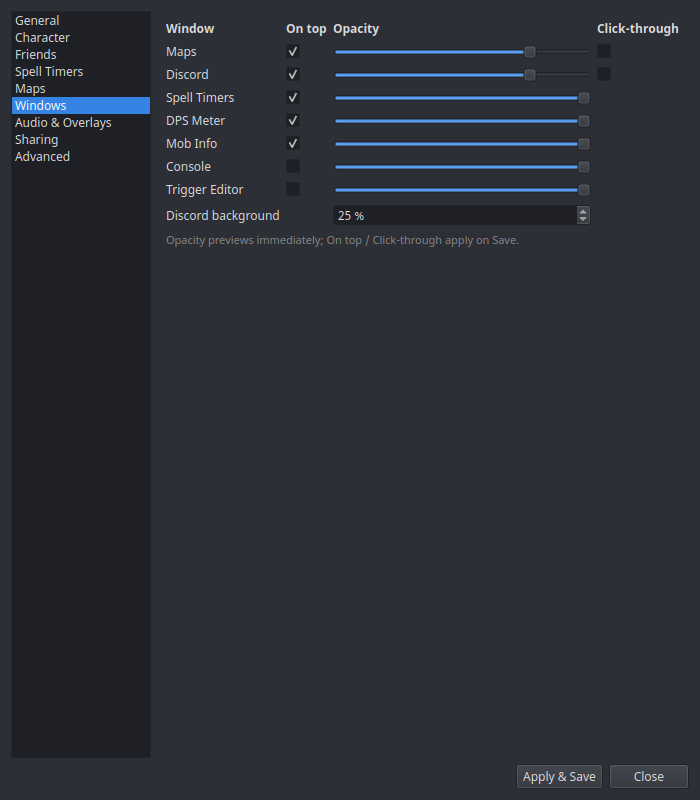
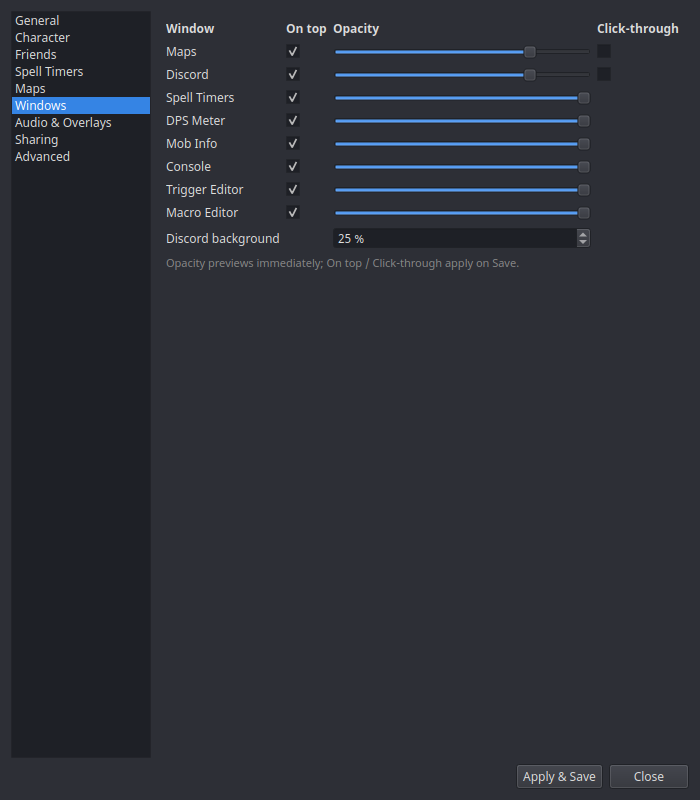
docs: document the Macro Editor and macro sharing
Adds docs/windows/macro-editor.md and docs/features/macros.md, both in the
mkdocs nav, plus cross-links from the features and windows indexes, the EQ
install directory row in Settings > General, and the friends sync page
(macros live in the same ini files).

The feature page leads with the caveat that matters: the client rewrites
these files on camp or logout, so edits made while logged in are lost. It
also spells out the duplicate-versus-conflict distinction as a table, since
users will conflate the two, and explains why the origin badge reads "last
written by" rather than "authored by".

Also captures the new window screenshot and recaptures settings--windows,
which gained a Macro Editor row.

Claude-Session: https://claude.ai/code/session_013krV6ioDtH4gUrZX2zXR7q

Changed region(s): [[0.24, 0.25, 0.84, 0.3438]]

diff --git a/tools/capture_screenshots.py b/tools/capture_screenshots.py
@@ -451,6 +451,51 @@ def cap_trigger_editor(backend, settings) -> None:
     capture(w, "window--trigger-editor", size=(960, 640))
 
 
+def cap_macro_editor(backend, settings) -> None:
+    import tempfile
+
+    from nparseplus.ui.macroeditor import MacroEditorWindow
+
+    # A throwaway EQ install so the editor has real files to read. Writing
+    # temp files is fine here — this is a tool, not library code.
+    eq_dir = Path(tempfile.mkdtemp(prefix="nparseplus-shots-eq-"))
+    (eq_dir / "uifiles").mkdir()
+    (eq_dir / "eqgame.exe").write_text("")
+    macros = [
+        (1, 1, "Assist", 13, ["/assist", "/pet attack"]),
+        (1, 2, "Pull", 4, ["/shout Pulling %T"]),
+        (1, 4, "CH Chain", 7, ["/gu CH on %T"]),
+        (1, 5, "Rez", 10, ["/say Need rez please"]),
+        (1, 7, "Med", 3, ["/sit"]),
+        (2, 1, "Track", 9, ["/tracking"]),
+    ]
+    lines = ["[Defaults]", "Version=1", "", "[Socials]"]
+    for page, button, name, color, cmds in macros:
+        prefix = f"Page{page}Button{button}"
+        lines.append(f"{prefix}Name={name}")
+        lines.append(f"{prefix}Color={color}")
+        lines.extend(f"{prefix}Line{i}={cmd}" for i, cmd in enumerate(cmds, start=1))
+    lines += ["", "[Friends]", "Friend0=Alistra", "", "[KeyMaps]", "Forward=W"]
+    (eq_dir / "Xantik_P1999Green.ini").write_text("\n".join(lines) + "\n")
+    (eq_dir / "Beeta_P1999Green.ini").write_text("[Socials]\nPage1Button1Name=Old\n")
+
+    previous = settings.general.eq_install_dir
+    settings.general.eq_install_dir = eq_dir
+    try:
+        store_dir = Path(tempfile.mkdtemp(prefix="nparseplus-shots-store-"))
+        w = _keep(MacroEditorWindow(settings, on_save=lambda: None, store_dir=store_dir))
+        w.confirm_unsaved = False
+        w.warn_eq_running = False
+        index = w.character_combo.findText("Xantik")
+        if index >= 0:
+            w.character_combo.setCurrentIndex(index)
+        w.load()
+        w.select_slot(1, 1)
+        capture(w, "window--macro-editor", size=(960, 640))
+    finally:
+        settings.general.eq_install_dir = previous
+
+
 def cap_settings(backend, settings) -> None:
     import nparseplus.ui.settingswindow as settingswindow
     from nparseplus.audio.tts import VoiceInfo
@@ -730,6 +775,7 @@ PHASE_A = {
     "feature--ch-chain": lambda b, s: cap_ch_chain(),
     "window--update-available": lambda b, s: cap_update_dialog(),
     "window--trigger-editor": lambda b, s: cap_trigger_editor(b, s),
+    "window--macro-editor": lambda b, s: cap_macro_editor(b, s),
     "settings": lambda b, s: cap_settings(b, s),  # emits all settings--*.png
 }
 

diff --git a/src/nparseplus/ui/macroeditor.py b/src/nparseplus/ui/macroeditor.py
@@ -484,10 +484,15 @@ class MacroEditorWindow(QWidget):
                 self._grid.button_origin,
                 self._grid.button_origin + self._grid.buttons_per_page,
             )
+            rows = 0
             for offset, button in enumerate(buttons):
                 widget = self._make_slot_button(page, button, duplicates, wanted)
-                layout.addWidget(widget, offset // GRID_COLUMNS, offset % GRID_COLUMNS)
+                rows = offset // GRID_COLUMNS
+                layout.addWidget(widget, rows, offset % GRID_COLUMNS)
                 self._buttons[(page, button)] = widget
+            # Let the slots keep their natural height and hug the top rather
+            # than stretching apart to fill the tab.
+            layout.setRowStretch(rows + 1, 1)
             self.page_tabs.addTab(tab, f"Page {page}")
 
         if selected is not None and selected in self._buttons:

diff --git a/docs/features/macros.md b/docs/features/macros.md
@@ -1,0 +1,104 @@
+# Macros & socials
+
+The EQ client keeps your macros — the socials on your hotkey buttons —
+**per character**, in the same `<Name>_<Server>.ini` files that hold the
+[friends list](friends-sync.md). Your main's carefully built macro set is
+invisible to your alt, and there is no way to hand it to a guildmate.
+
+The [Macro Editor](../windows/macro-editor.md) makes that set editable,
+copyable between your own characters, and shareable as a file.
+
+## What you can do
+
+1. Set your **EQ install directory** in
+   [Settings → General](../settings/general.md).
+2. Open **Macro Editor** from the tray, pick a server and character, and
+   hit **Load**.
+3. Edit any macro's name, colour, and up to five command lines.
+4. **Copy to character(s)…** replicates the set onto your alts.
+5. **Export…** writes a macro pack; **Import…** merges someone else's.
+
+!!! warning "Edit while logged out"
+    The client rewrites the whole character `.ini` when you camp or log
+    out, discarding anything changed while it was running. nParse+ warns
+    you if it sees the game running, but it will not stop you — so the
+    safe habit is to edit macros while that character is logged out. If a
+    save looks like it "didn't work", this is almost always why.
+
+Originals are copied into a `socials_backup/` folder beside them before
+the first write, the same safety net the friends sync uses.
+
+## Duplicates and conflicts are different things
+
+Users conflate these, so the editor keeps them apart:
+
+| | Same slot | Different slot |
+|---|---|---|
+| **Same macro** | nothing to do | *duplicate* — skipped, and reported |
+| **Different macro** | *conflict* — you are asked what to do | placed |
+
+A **duplicate** is a macro the character already has somewhere, matched on
+its name *or* on an identical set of command lines. Imports skip these and
+tell you where the existing copy lives; you can place another copy anyway.
+
+A **conflict** is a *different* macro already sitting in the slot an
+imported macro wants. Imports keep their original page and button so
+muscle memory survives, so when the slot is taken you get a choice:
+
+| Choice | What happens |
+|---|---|
+| **Overwrite** | The imported macro takes the slot. |
+| **Move to free slot** | It lands on the first empty button instead. |
+| **Skip** | It is not imported. |
+
+**Find duplicates…** lists every duplicate group in the current character
+and jumps to any slot. It never changes anything — clear a slot yourself
+if you want it gone.
+
+## Where your macros came from
+
+Every slot carries a badge saying who last wrote it:
+
+| Badge | Meaning |
+|---|---|
+| ▢ | **From game** — read out of the client's file, not authored here |
+| ✎ | **Created in nParse+** — you edited it in the Macro Editor |
+| ↧ | **Imported** — it arrived in a macro pack or a copy from another character |
+
+The **Show** filter dims the slots that don't match, rather than hiding
+them, so positions stay readable. **Export…** uses the same information:
+it defaults to *only what I authored*, so a pack you share doesn't carry
+the client's stock macros.
+
+!!! note "\"Last written by\", not \"authored by\""
+    nParse+ knows whether a slot still holds exactly what it wrote there.
+    It cannot tell who changed it otherwise. Edit a macro in game and it
+    correctly flips back to *from game* — but edit it in game back to the
+    exact value nParse+ wrote and it will still read as yours.
+
+## The local copy
+
+Each time you Load a character, nParse+ mirrors their macros into its own
+data directory. The client's `.ini` stays the source of truth; the mirror
+exists so the editor can tell what changed since last time, track the
+badges above, and put things back.
+
+The **Local library** tab lists that mirror. Its most useful job is after
+a clobber: if the client rewrote the file and dropped macros, they show as
+*not in file*, and **Restore from local copy** puts them back into the
+working set (you still click Save to character to write them).
+
+The mirror is a convenience, never a dependency. If it can't be written
+the editor says so in the status line and saves your macros anyway, and
+deleting the directory is a supported reset — everything simply reads as
+*from game* again.
+
+## Sharing a pack
+
+Exports are plain JSON with a `format` of `nparseplus-socials`, the same
+envelope shape as [trigger packs](triggers.md), so they can be posted,
+mailed, or checked into a guild repo. A pack records which character it
+came from for display only; that never changes anything on import.
+
+Only socials are covered. Hotbar assignments and key bindings live in
+other sections of the same file and are not touched.

diff --git a/docs/windows/macro-editor.md b/docs/windows/macro-editor.md
@@ -1,0 +1,70 @@
+# Macro Editor
+
+The Macro Editor is a framed tool window for browsing and editing a
+character's in-game macros ("socials"), copying a macro set onto your other
+characters, and sharing it as a file. See
+[Macros & socials](../features/macros.md) for the concepts.
+
+![The Macro Editor](../assets/screenshots/window--macro-editor.png)
+
+Open it from the tray → **Macro Editor**. It needs the **EQ install
+directory** set in [Settings → General](../settings/general.md).
+
+## Layout
+
+- **Top bar** — pick the **Server** (P1999Green, P1999Blue, P1999Red,
+  Real-Test) and **Character**, then **Load**. The **Show** filter dims
+  slots that don't match an origin, rather than hiding them, so positions
+  stay readable.
+- **Left: Grid tab** — one tab per macro page, each a grid of button
+  slots. A slot shows its position, an origin badge, a `⧉` marker when it
+  duplicates another macro, and the macro's name. Empty slots say so.
+- **Left: Local library tab** — the mirrored copy of this character's
+  macros, grouped by origin. Macros the client has since dropped appear as
+  *not in file*, with **Restore from local copy** beside the count.
+- **Right: the macro form** — **Name**, **Color**, and up to five command
+  lines, plus a line naming who last wrote this slot and **Clear this
+  macro**.
+
+The page grid mirrors the in-game socials window, which also makes free
+slots obvious — useful when an import offers to move a macro out of a
+taken slot.
+
+## Buttons
+
+| Button | What it does |
+|---|---|
+| **Load** | Reads the selected character's macros and refreshes the local copy. |
+| **Save to character** | Writes the working copy to that character's `.ini`. |
+| **Copy to character(s)…** | Replicates this set onto other characters — **writes immediately**. |
+| **Import…** | Merges a macro pack into the working copy. |
+| **Export…** | Writes a macro pack, defaulting to only what you authored. |
+| **Find duplicates…** | Lists duplicate groups and jumps to a slot. Changes nothing. |
+
+## Editing rules
+
+- Nothing reaches the `.ini` until **Save to character** — edits happen on
+  a working copy. Closing with unsaved changes prompts you.
+- **Copy to character(s)… is the exception**: it writes its targets
+  straight away, like the friends push does. Its confirm dialog names the
+  characters and says whether it will replace or merge.
+- **Import never writes** — it only fills the working copy, and says so.
+- Grid dimensions are read from your own file rather than assumed, so a
+  client build with more pages, buttons, or lines works unchanged. An
+  imported macro that would land outside your grid is reported instead of
+  written.
+
+## Safety
+
+- Every file is copied into `socials_backup/` beside it before its first
+  write, and that first copy is never overwritten.
+- Saving warns — but does not stop you — when the EQ client looks to be
+  running, because it rewrites these files on camp and logout. See the
+  [warning in Macros & socials](../features/macros.md).
+- Only the `[Socials]` section is rewritten. Other sections of the file,
+  unrecognised keys, comments, and blank lines are preserved exactly.
+
+!!! note "Colour is a number"
+    **Color** is the client's own palette index, shown as a raw number.
+    The P99 palette mapping isn't verified, and a swatch showing the wrong
+    colour would be worse than an honest index.

diff --git a/docs/windows/index.md b/docs/windows/index.md
@@ -16,7 +16,7 @@ Click the tray icon to open the menu. Top to bottom:
 | **Check for updates** | Checks GitHub for a newer release on demand and reports back either way — the update dialog if one is found, or a "you're on the latest version" notification. |
 | **Sharing: …** | A read-only line showing your current [location-sharing](../features/sharing.md) state (`off` until you enable it). |
 | **Select EQ Logs Directory** | Point nParse+ at the folder EQ writes logs to (same as [Settings → General](../settings/general.md)). |
-| **Maps · Discord · Spell Timers · Settings · DPS Meter · Mob Info · Console · Trigger Editor** | One checkable toggle per window — a check means the window is shown. These are the windows detailed below. |
+| **Maps · Discord · Spell Timers · Settings · DPS Meter · Mob Info · Console · Trigger Editor · Macro Editor** | One checkable toggle per window — a check means the window is shown. These are the windows detailed below. |
 | **Position Event Overlay** | Enters the [Event Overlay](event-overlay.md)'s drag-and-resize [positioning mode](event-overlay.md#positioning-it) so you can line it up over the game. |
 | **Window Layouts ▸** | Save, apply, and manage named position/size [presets](#window-layout-presets) (Save Current Layout, Reset Window Positions, and per-layout Apply / Replace / Rename / Delete). |
 | **Configure Discord** | Opens the legacy [Discord overlay](discord-overlay.md) settings. |
@@ -33,6 +33,7 @@ Click the tray icon to open the menu. Top to bottom:
 | [Event Overlay](event-overlay.md) | Full-screen trigger alerts, countdown bars, CH lanes |
 | [Console](console.md) | Raw log scrollback (great for debugging triggers) |
 | [Trigger Editor](trigger-editor.md) | Browse and edit built-in and custom triggers |
+| [Macro Editor](macro-editor.md) | Edit, copy, and share a character's in-game macros |
 | [Discord Overlay](discord-overlay.md) | Discord voice channel over the game (legacy) |
 
 ## Working with frameless overlays

diff --git a/docs/settings/general.md b/docs/settings/general.md
@@ -5,7 +5,7 @@
 | Setting | What it does |
 |---|---|
 | **EQ Logs directory** | The folder nParse+ watches for `eqlog_*.txt` files. The single most important setting — see [First run](../getting-started/first-run.md) for where to find it per platform. |
-| **EQ install directory** | Optional. Points at the EverQuest install itself; enables reading your real `spells_us.txt` (instead of the bundled copy), [Friends sync](../features/friends-sync.md), the [Night Vision fix](../features/night-vision.md), and the [inventory watcher](../features/sharing.md#pigparseorg-account-optional). |
+| **EQ install directory** | Optional. Points at the EverQuest install itself; enables reading your real `spells_us.txt` (instead of the bundled copy), [Friends sync](../features/friends-sync.md), the [Macro Editor](../windows/macro-editor.md), the [Night Vision fix](../features/night-vision.md), and the [inventory watcher](../features/sharing.md#pigparseorg-account-optional). |
 | **Check for updates** | The startup GitHub release check ([Self-updater](../features/updater.md)). |
 | **Version indicator** | Shows the running **nParse+ &lt;version&gt;** with a status badge — green **Up to date** or amber **Update available: vX.Y.Z** — and a **Check now** button to re-run the release check on demand. (Previously the version was only visible in the tray menu.) |
 | **Theme** | Dark or Light — applies to every window after restart. |

diff --git a/docs/features/friends-sync.md b/docs/features/friends-sync.md
@@ -20,6 +20,9 @@ nParse+ reads and writes those client files directly:
 
 Log in on any character afterward and `/friends` shows the merged list.
 
+These same ini files also hold your macros — see
+[Macros & socials](macros.md).
+
 !!! note "Backups first"
     Before the first write, every ini file is copied into a
     `friends_backup/` folder beside it — an nParse+ safety addition over

diff --git a/docs/features/index.md b/docs/features/index.md
@@ -34,6 +34,8 @@ out of your log and what it does with it.
   interoperating with EQTool users; plus the self-hostable nparse mode
 - [Friends sync](friends-sync.md) — one merged friends list across your
   characters
+- [Macros & socials](macros.md) — edit your in-game macros, copy them to
+  your alts, and share them as a pack
 
 **App**
 
